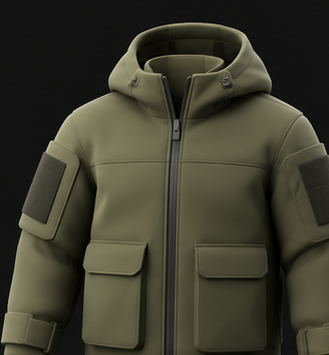
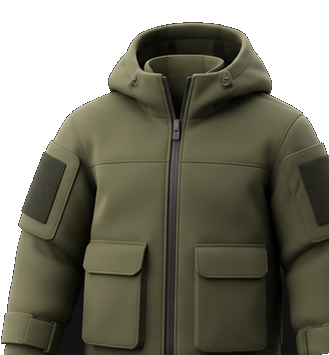
Refine latest release demo presentation

Changed region(s): [[0.0, 0.0, 1.0, 1.0], [0.9726, 0.9915, 1.0, 1.0]]

diff --git a/assets/component-product-card.css b/assets/component-product-card.css
@@ -201,15 +201,15 @@
 }
 .featured-releases__grid > .pcard:first-child { border-inline-start: 0; }
 .featured-releases .pcard__media {
-  height: 208px;
+  height: 212px;
   aspect-ratio: auto;
   background: transparent;
   padding: 4px 12px 0;
 }
 .featured-releases .pcard__media img {
   display: block;
-  width: 72%;
-  height: 72%;
+  width: 80%;
+  height: 80%;
   margin: 0 auto;
   object-fit: contain;
   transition: transform var(--dur-base) var(--ease-out-slow), opacity var(--dur-fast) var(--ease-out-slow);
@@ -217,10 +217,10 @@
 .featured-releases .pcard:hover .pcard__media img { transform: scale(1.02); }
 .featured-releases .pcard:nth-child(2) .pcard__media img,
 .featured-releases .pcard:nth-child(4) .pcard__media img,
-.featured-releases .pcard:nth-child(5) .pcard__media img { transform: scale(.82); }
+.featured-releases .pcard:nth-child(5) .pcard__media img { transform: scale(.9); }
 .featured-releases .pcard:nth-child(1) .pcard__media img,
 .featured-releases .pcard:nth-child(3) .pcard__media img,
-.featured-releases .pcard:nth-child(6) .pcard__media img { transform: scale(.9); }
+.featured-releases .pcard:nth-child(6) .pcard__media img { transform: scale(.98); }
 .featured-releases .pcard__body {
   min-height: 55px;
   padding: 8px 12px 0;
@@ -265,8 +265,8 @@
     flex: 0 0 calc((100% - 12px) / 1.7);
     scroll-snap-align: start;
   }
-  .featured-releases .pcard__media { height: 178px; padding-inline: 8px; }
-  .featured-releases .pcard__media img { width: 72%; height: 72%; }
+  .featured-releases .pcard__media { height: 182px; padding-inline: 8px; }
+  .featured-releases .pcard__media img { width: 80%; height: 80%; }
   .featured-releases .pcard__body { padding-inline: 8px; }
 }
 
